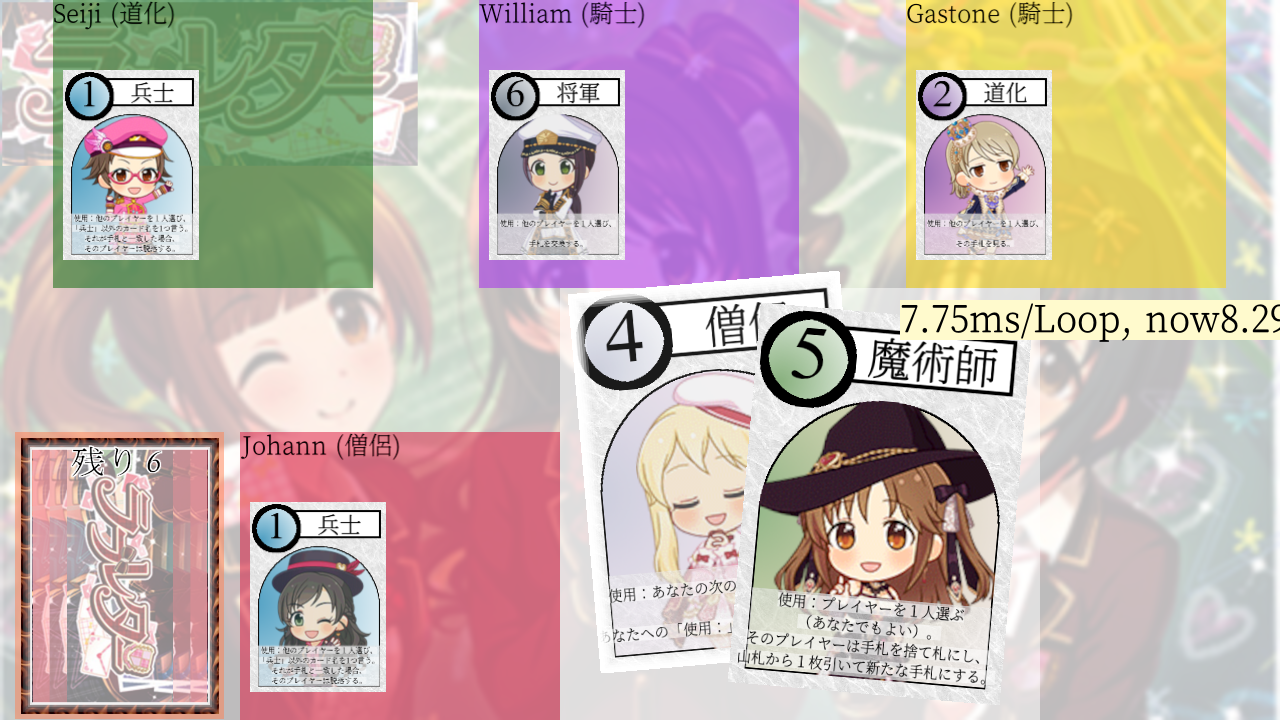
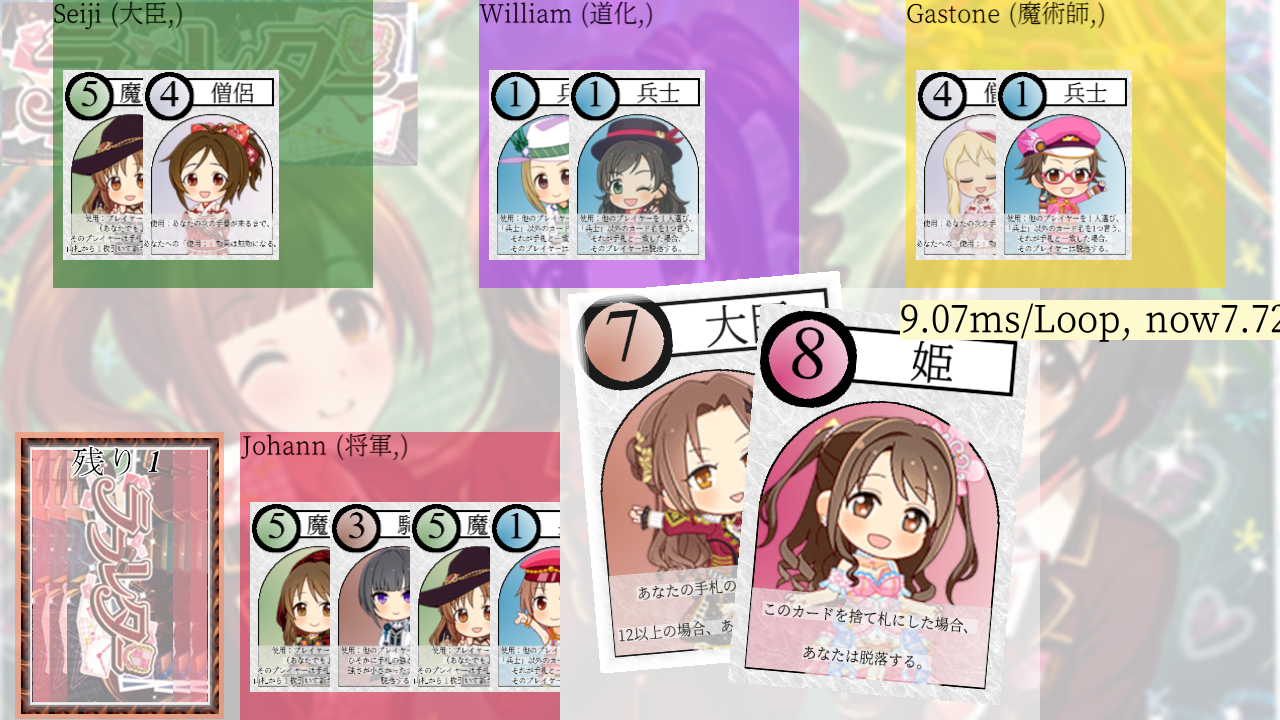
L240:WizardEffect実装、ハッシュ一つではなくタプルで識別した方が良いかも

diff --git a/ll/seed/default_deck.py b/ll/seed/default_deck.py
@@ -4,6 +4,7 @@ from typing import Callable
 
 from any.locales import kames
 from kard.syougun_effect import SyougunEffect
+from kard.wizard_effect import WizardEffect
 from model.in_effect_kard import InEffectKard
 from model.kard import Kard
 from model.kard_core import KardCore
@@ -12,6 +13,9 @@ from model.player import Player
 from ptc.bridge import Bridge
 from seed.default_router import router
 
+wizard_effect = WizardEffect(
+    guards_async=router.guards_async,
+)
 syougun_effect = SyougunEffect(
     guards_async=router.guards_async,
     exchange_kards_async=router.exchange_kards_async
@@ -30,7 +34,11 @@ class DefaultDeck():
 
     def _make_deck(self) -> list[Kard]:
         deck = self._original_deck()
+        wiz1 = deck[11]
+        wiz2 = deck[12]
         shuffle(deck)
+        deck.insert(0, wiz1)
+        deck.insert(1, wiz2)
         return deck
     
     def _original_deck(self) -> list[Kard]:
@@ -60,7 +68,7 @@ class DefaultDeck():
             (KardID.DOUKE, lambda : kames(folder="douke", key="name"), 2, _func),
             (KardID.KISI, lambda : kames(folder="kisi", key="name"), 3, _func),
             (KardID.SOURYO, lambda : kames(folder="souryo", key="name"), 4, _func),
-            (KardID.MAZYUTUSI, lambda : kames(folder="mazyutusi", key="name"), 5, _func),
+            (KardID.MAZYUTUSI, lambda : kames(folder="mazyutusi", key="name"), 5, wizard_effect.use_func),
             (KardID.SYOUGUN, lambda : kames(folder="syougun", key="name"), 6, syougun_effect.use_func),
             (KardID.DAIZIN, lambda : kames(folder="daizin", key="name"), 7, _func),
             (KardID.HIME, lambda : kames(folder="hime", key="name"), 8, _func)

diff --git a/ll/kard/wizard_effect.py b/ll/kard/wizard_effect.py
@@ -1,0 +1,36 @@
+from dataclasses import dataclass
+from typing import Callable
+
+from any.locales import kames
+from model.board import Board
+from model.player import Player
+from ptc.bridge import Bridge
+from view.player_select_view import PlayerSelectView
+
+@dataclass
+class WizardEffect():
+    guards_async: Callable[[str], None]
+    '''フックに掛ける非同期処理を担うController.action命令を注入する。
+    '''
+
+    def use_func(self, bridge: Bridge, player: Player) -> None:
+        '''カード使用時に呼ばれる命令。
+        '''
+        bridge.whileloop(new_view=(psv := PlayerSelectView(
+            bridge=bridge,
+        )))
+        self.commit_board(
+            board=bridge.board,
+            player=psv.selected_player,
+        )
+
+    def commit_board(
+            self, board: Board, player: Player,
+    ) -> None:
+        '''Boardのデータを実際に更新する命令。
+        '''
+        if player.protected:
+            self.guards_async(kames(folder="wizard", key="name"))
+            return
+        board.diskard(player=player, kard=player.hand)
+        board.draw(player=player)

diff --git a/ll/view/player_square.py b/ll/view/player_square.py
@@ -49,7 +49,6 @@ class PlayerSquare():
 
     def draw(self) -> None:
         if self.player.view_hash != self.old_hash:
-            print("更新", self.player.name)
             self.old_hash = self.player.view_hash
             self.img = self._img()
             self.log_squares = self._log_squares()
@@ -68,7 +67,7 @@ class PlayerSquare():
 
     def _img(self) -> Surface:
         img = Surface(size=self._RATIO, flags=SRCALPHA)
-        hand_name = "empty" if len(self.player.hands) == 0 else self.player.hands[0].name
+        hand_name = "empty" if len(self.player.hands) == 0 else "".join(kard.name+"," for kard in self.player.hands)
         rect_fill(color=self._color(), rect=Rect((0, 0), self._RATIO), surface=img)
         img.blit(source=LL_RENDER(f"{self.player.name} ({hand_name})", 24, "black"), dest=(0, 0))
         return transform.rotozoom(surface=img, angle=0.0, scale=self.rect.w/self._RATIO[0])

diff --git a/ll/any/func.py b/ll/any/func.py
@@ -42,6 +42,6 @@ def enforce(__object: Any, __type: type[T]) -> T:
         raise ValueError(f"{__object} is not an instance of {__type.__name__}")
     return __object
 
-def lcgs(hash: int, a: int, b: int, m: int=(2^19-1)) -> int:
+def lcgs(hash: int, a: int, b: int, m: int=(2^31-1)) -> int:
     '''線形合同法でハッシュ値を算出する関数です'''
     return (a*hash+b) % m

diff --git a/ll/view/choice_square.py b/ll/view/choice_square.py
@@ -30,6 +30,7 @@ class ChoiceSquare():
         if not self._has_two_hands:
             return
         if self.old_hash != self._view_hash:
+            print("hoi")
             self.old_hash = self._view_hash
             self.img = self._img()
             self.hqs = self._hqs()
